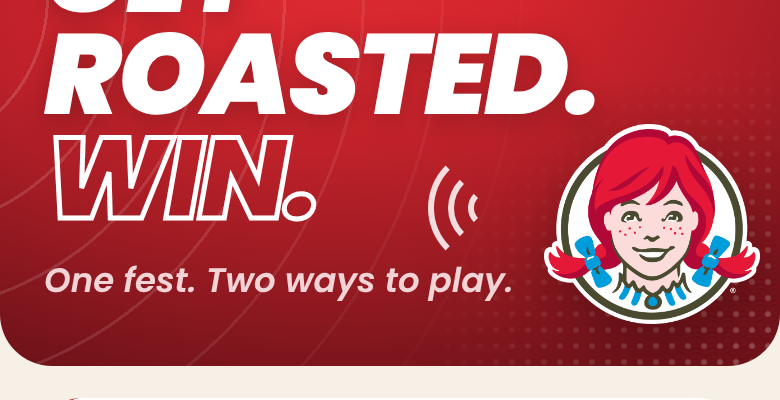
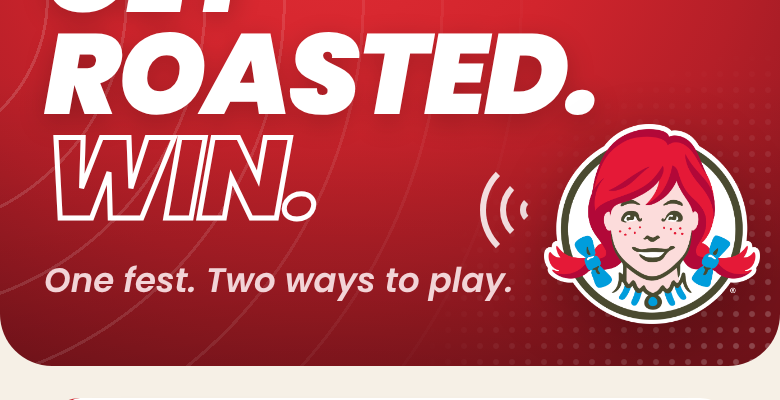
Landing: waves tucked in beside the cameo
Claude-Session: https://claude.ai/code/session_015MHPvZ3kkn8jw5YatKY7r4

Changed region(s): [[0.5231, 0.42, 0.6769, 0.63]]

diff --git a/public/index.html b/public/index.html
@@ -13,7 +13,7 @@
     <div class="eyebrow" data-t="fest">Wendy Fest</div>
     <h1 class="display h1 rise"><span data-t="hero1">Scream.</span><br><span data-t="hero2">Get</span><br><span data-t="hero3">roasted.</span><br><span class="outline" data-t="hero4">Win.</span></h1>
     <p class="sub rise-2" style="max-width:238px" data-t="sub">One fest. Two ways to play.</p>
-    <div class="waves" style="right:116px;top:274px;width:60px;height:60px"><i></i><i></i><i></i></div>
+    <div class="waves" style="right:96px;top:278px;width:54px;height:54px"><i></i><i></i><i></i></div>
     <img class="cameo rise-3" src="/assets/cameo.png" alt="" style="right:10px;top:262px;width:108px">
   </header>
   <main class="body" style="gap:12px;padding-top:16px">
